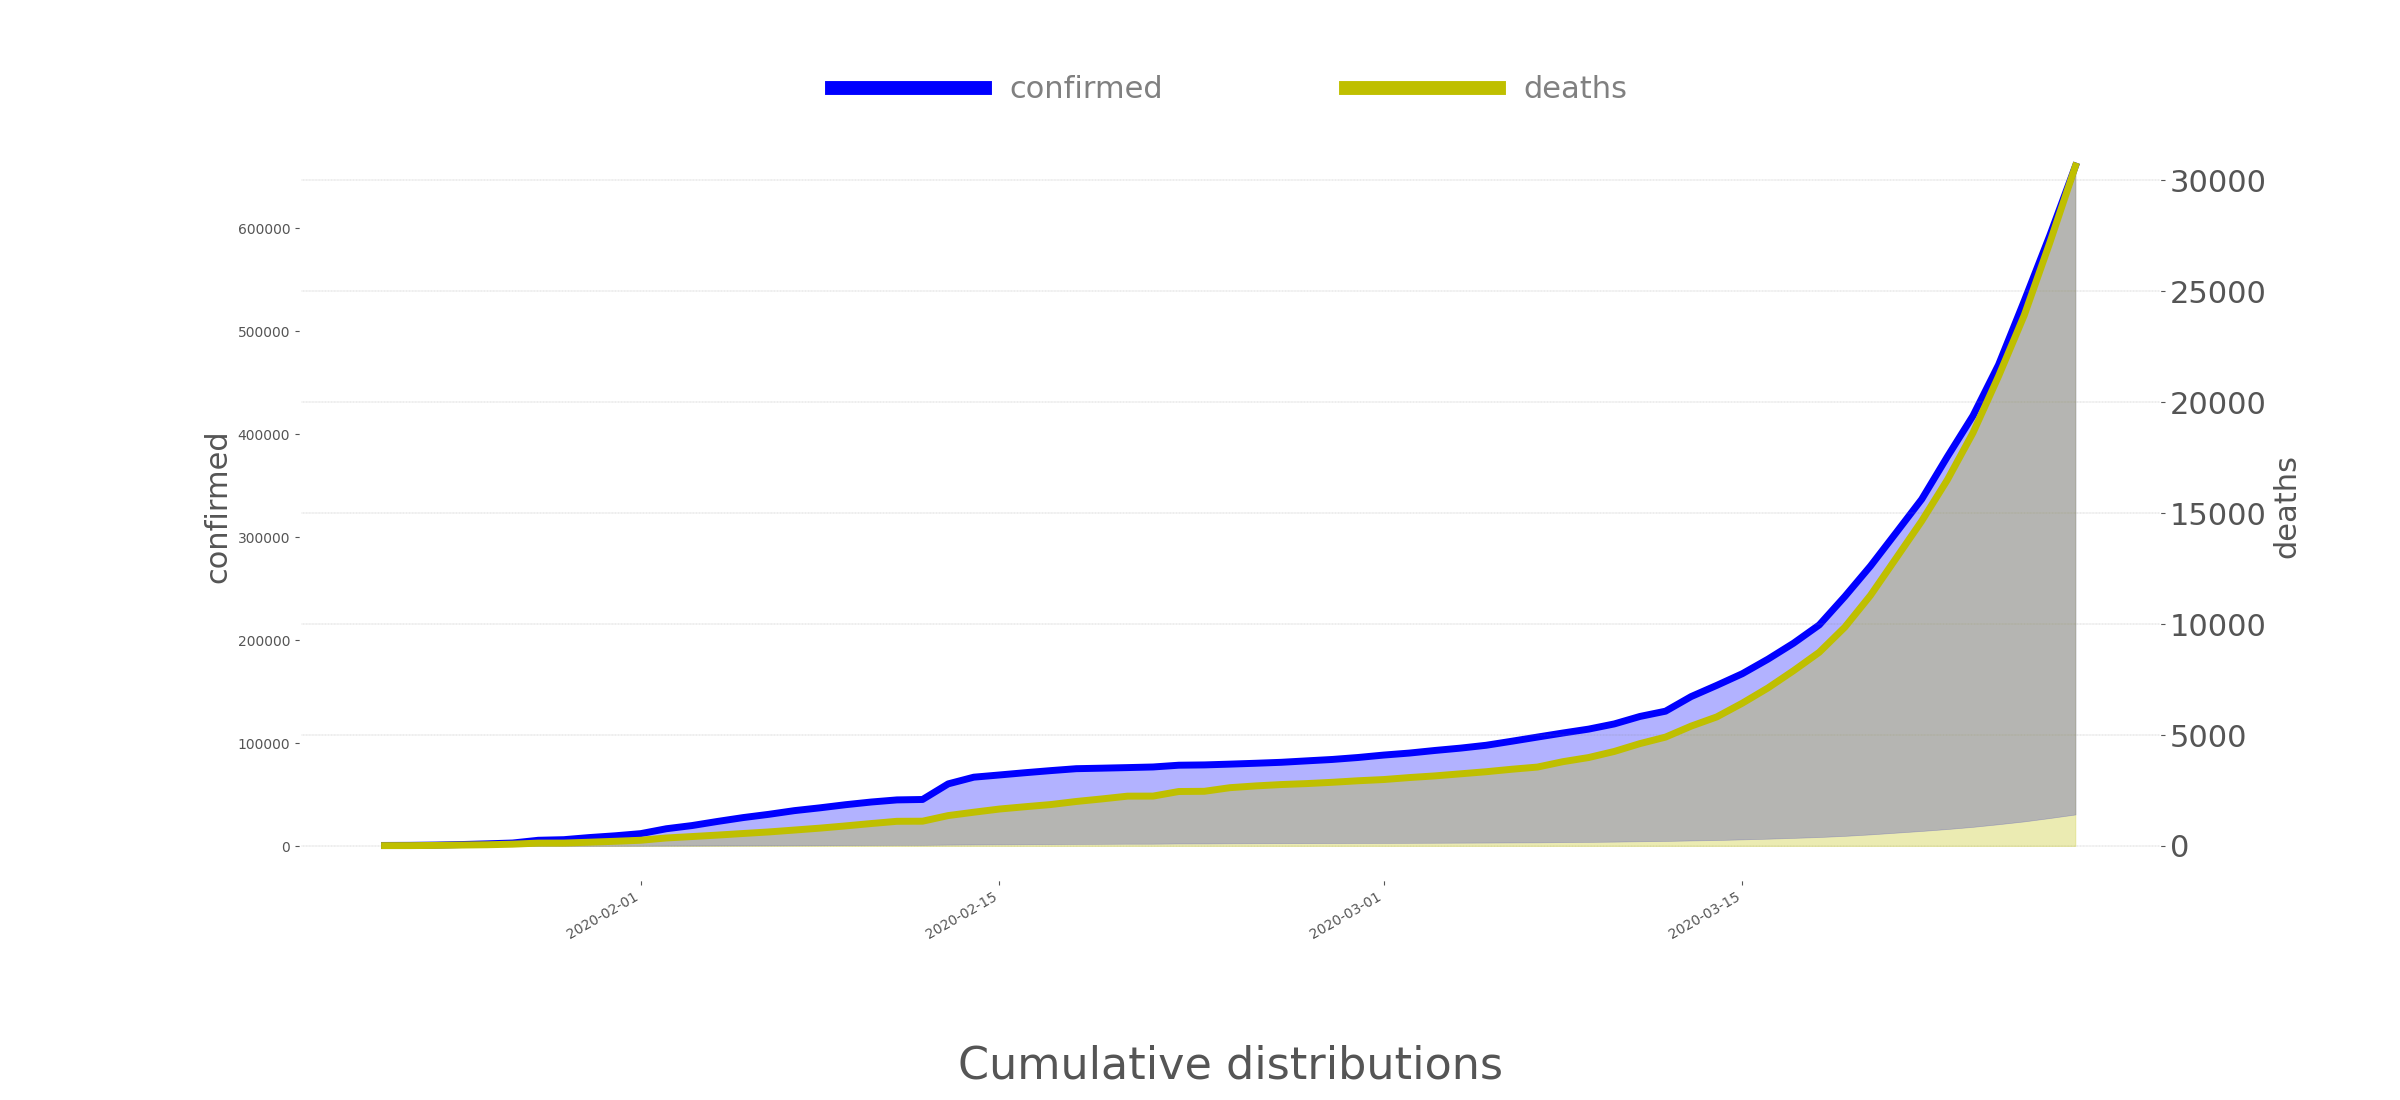
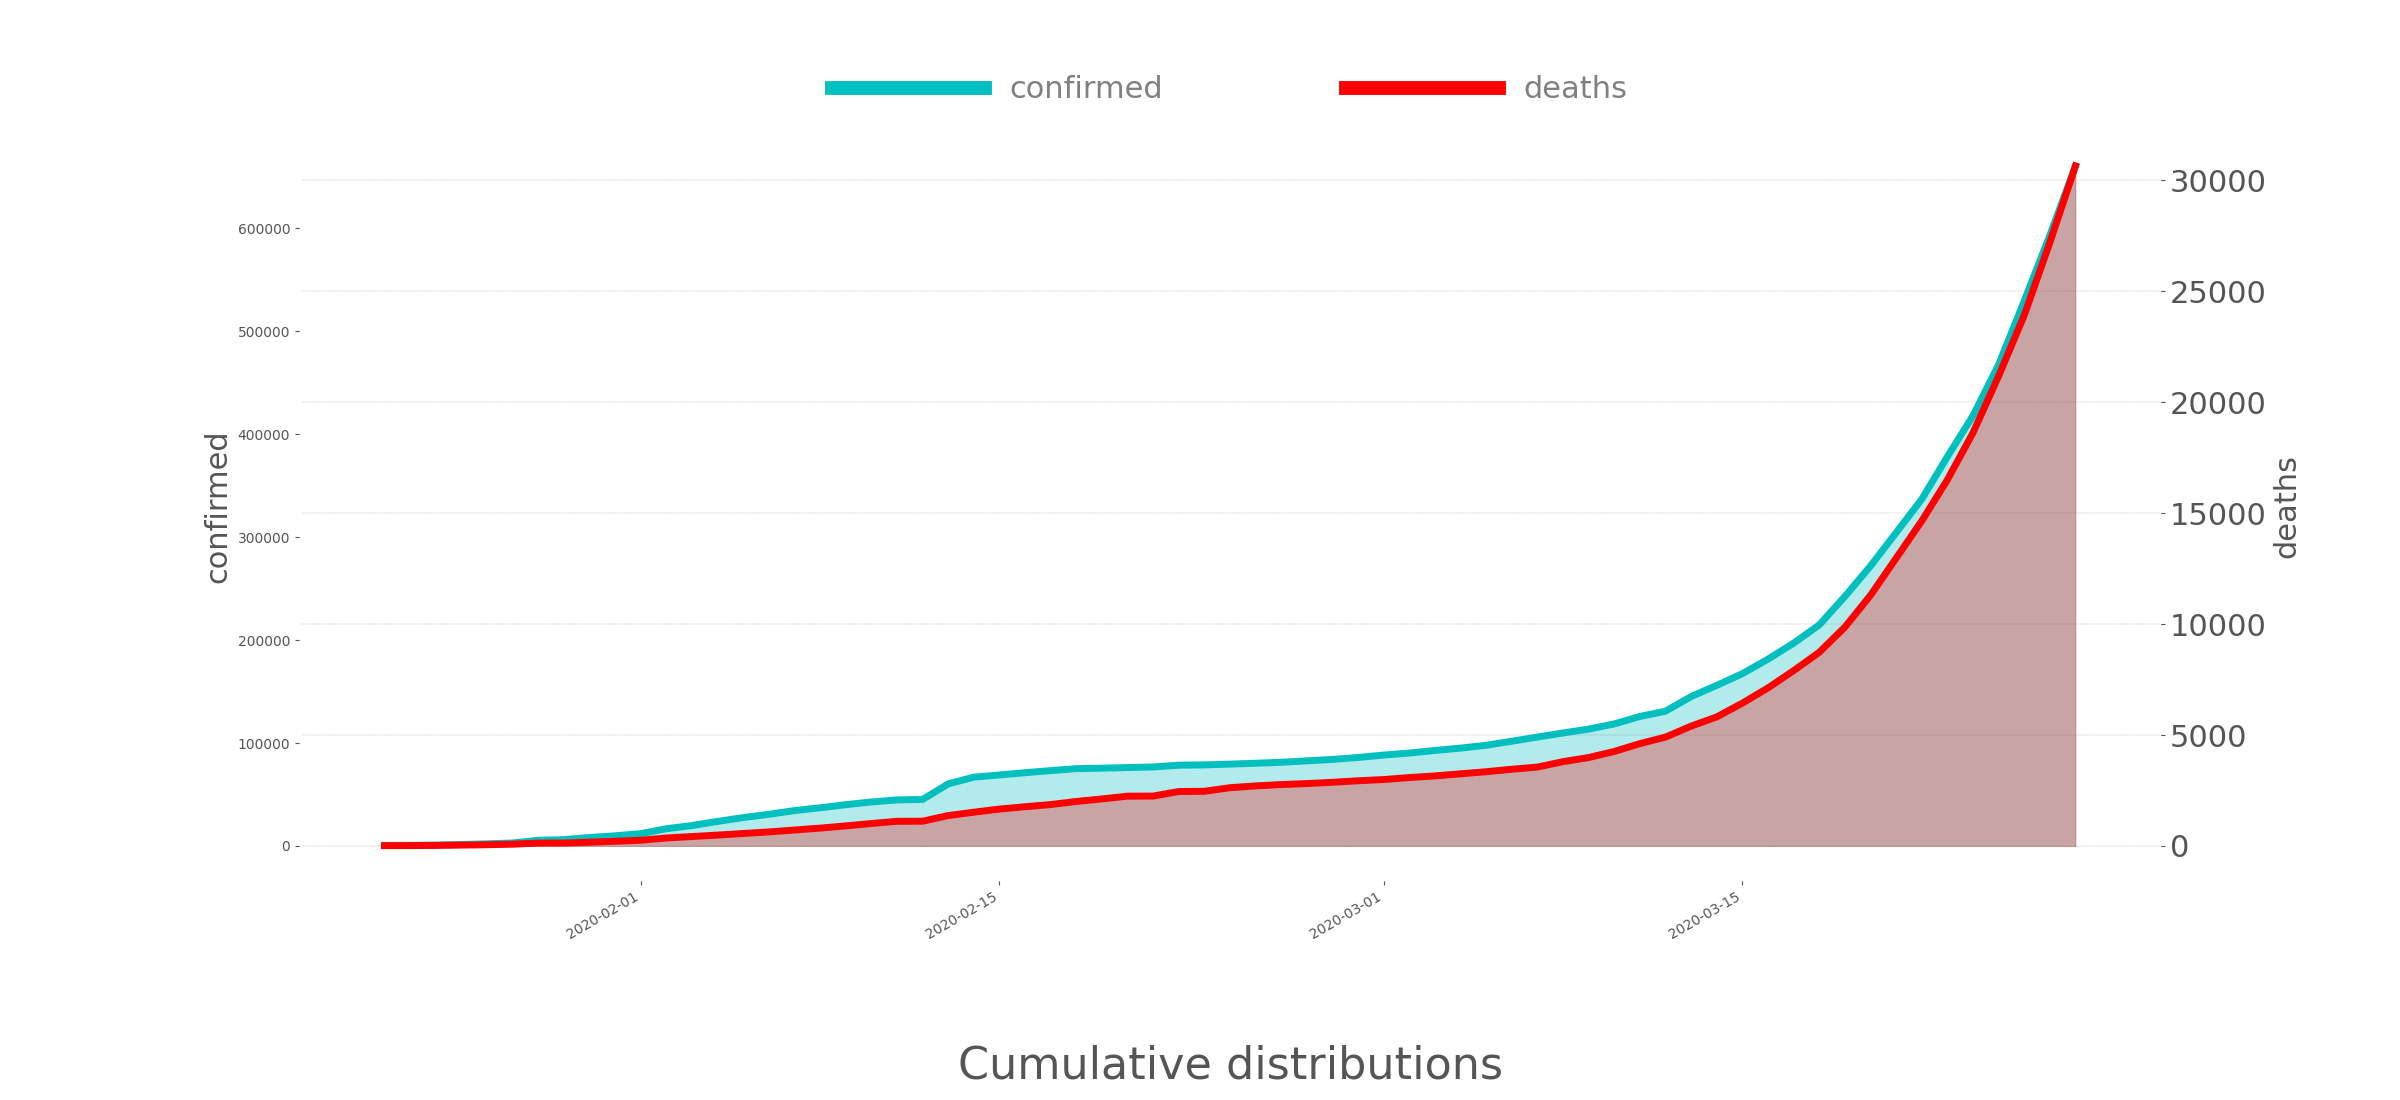
Fixed logistic curve

diff --git a/scripts/covid_by_ste/covid_analysis/plotter.py b/scripts/covid_by_ste/covid_analysis/plotter.py
@@ -63,7 +63,7 @@ class Plotter:
         legend_kwargs = dict(bbox_to_anchor=(.5, 1), edgecolor='white',
                              loc='lower center', ncol=3, fontsize=22,
                              columnspacing=6, handlelength=5, facecolor='white')
-        colors = ['b', 'y', 'c']
+        colors = ['c', 'r']
         lines = []
 
         fig, ax = plt.subplots(figsize=(24, 11))
@@ -74,13 +74,8 @@ class Plotter:
                 tmp = ax.twinx()
             lines += tmp.plot(grouped.index, grouped[s], color=colors[i],
                               label=s, lw=5)
-            if s == 'confirmed':
-                tmp.fill_between(grouped[s].index, grouped[s],
-                                 grouped[STATUS_TYPES[i - 1]],
-                                 color=colors[i], alpha=0.3)
-            else:
-                tmp.fill_between(grouped[s].index, grouped[s], 0,
-                                 color=colors[i], alpha=0.3)
+            tmp.fill_between(grouped[s].index, grouped[s], 0,
+                             color=colors[i], alpha=0.3)
             tmp.set_ylabel(s, fontsize=22)
 
         fig.autofmt_xdate()

diff --git a/scripts/covid_by_ste/covid_analysis/analysis.py b/scripts/covid_by_ste/covid_analysis/analysis.py
@@ -61,7 +61,7 @@ if __name__ == '__main__':
     # FOR TESTING
     log.info('{0:} Starting analysis {0:}'.format(sep))
 
-    # logistic_curves() # DONE
+    logistic_curves() # DONE
 
     # world_scatter_swab() # DONE
 
